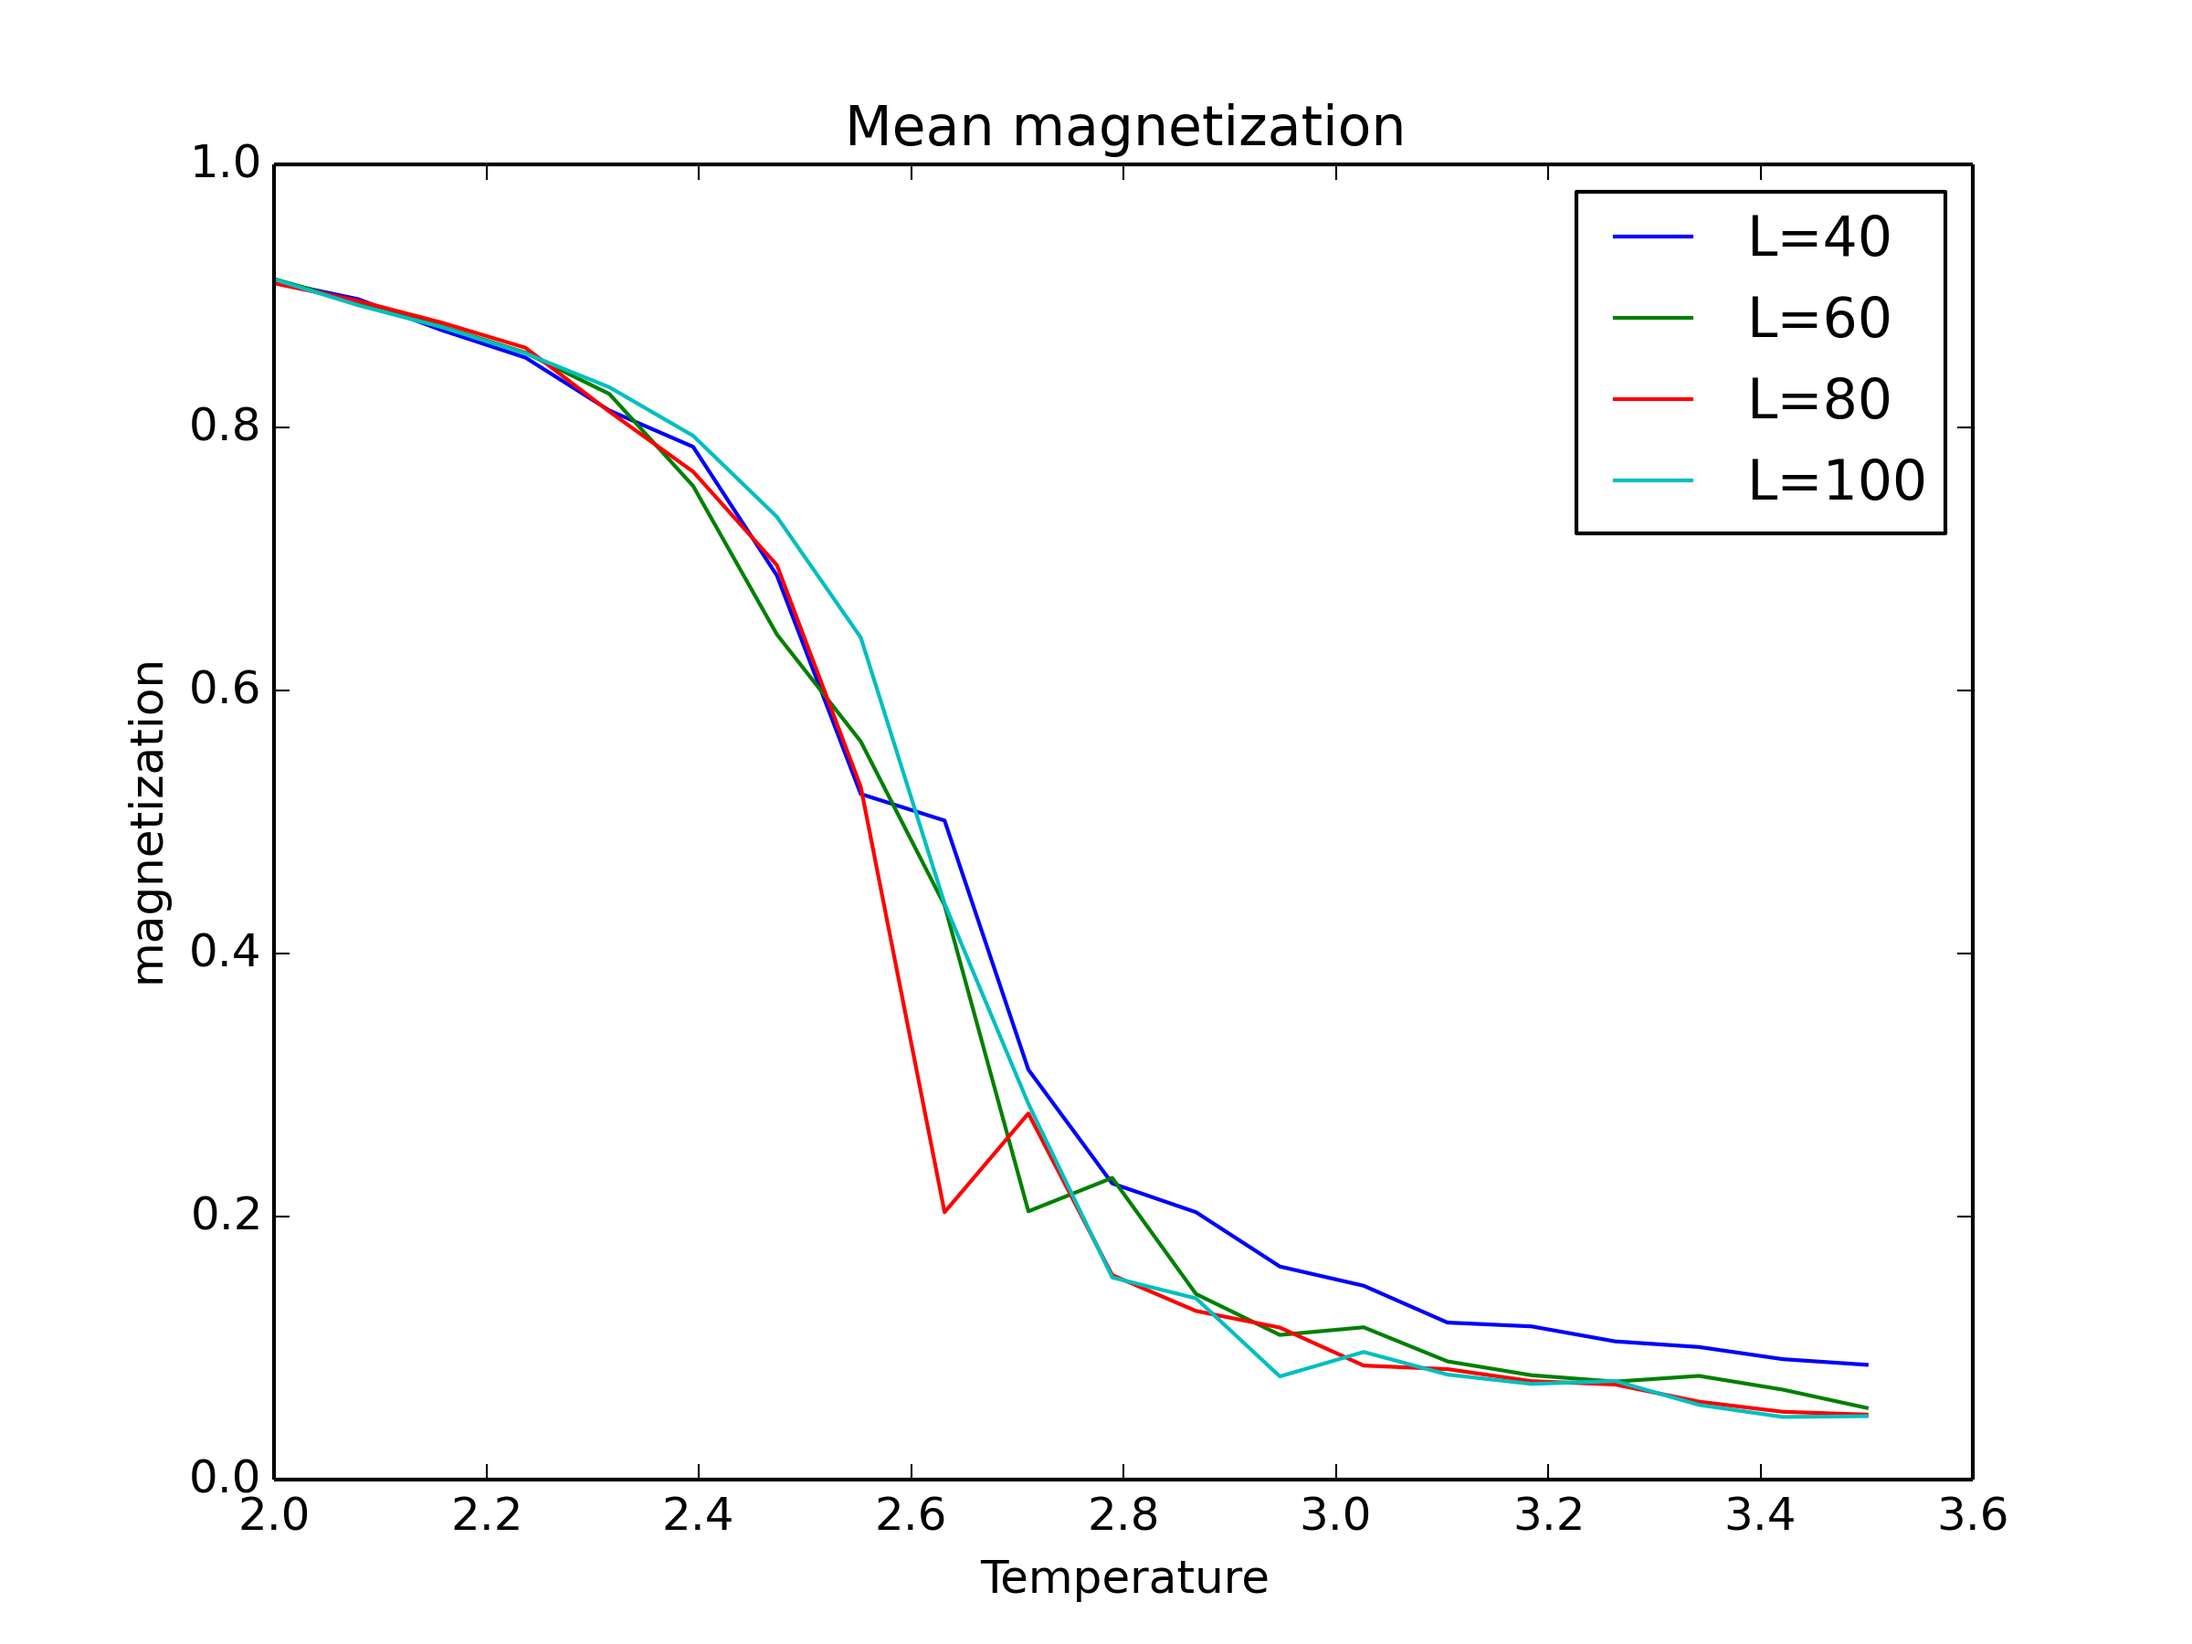
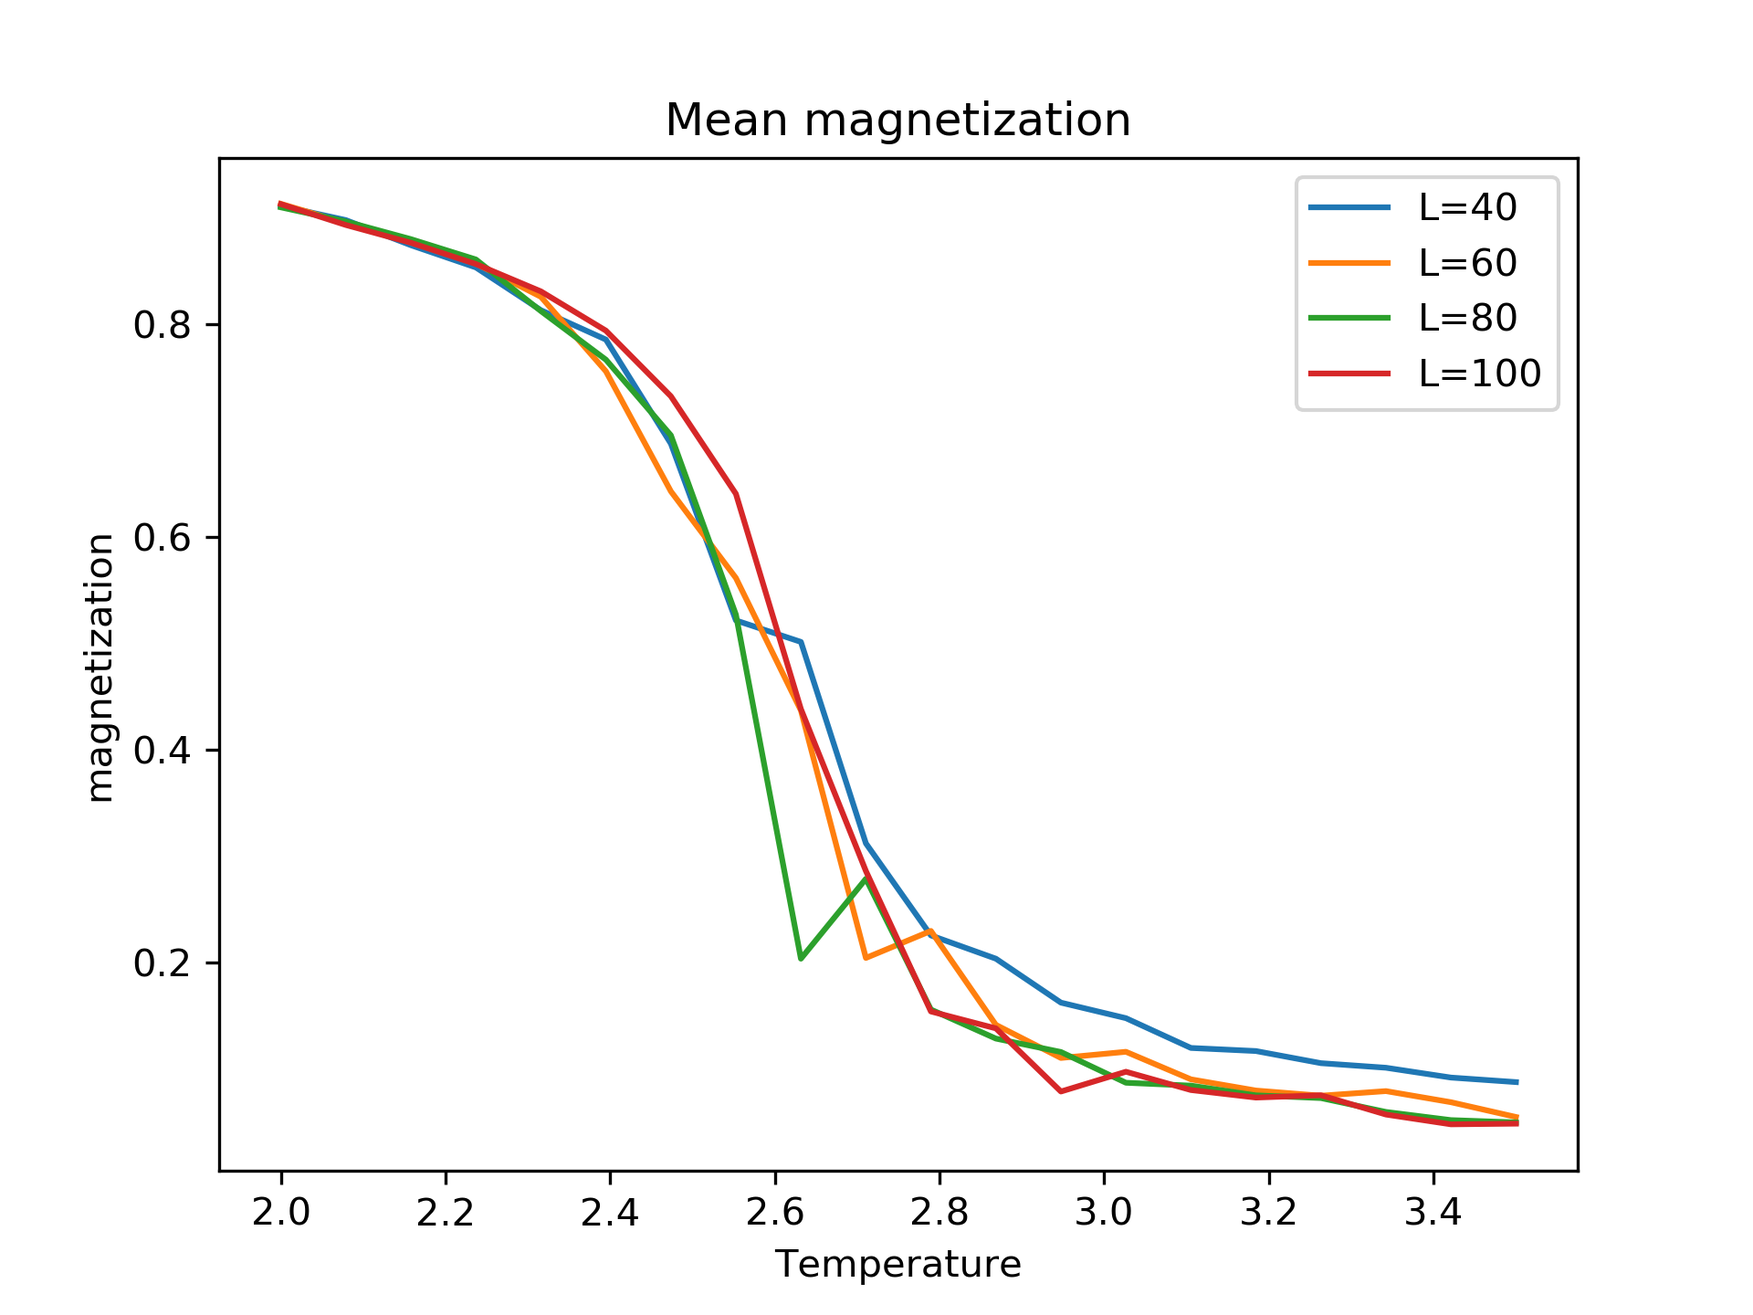
interpolert plot

diff --git a/Project4/Latex/Plotting/final_plot.py b/Project4/Latex/Plotting/final_plot.py
@@ -34,17 +34,38 @@ for k in range(T_steps):
 
 T = np.linspace(2.0, 3.5, T_steps)
 
-specific_heat_40  = interpolate.interp1d(T, M_mean[0])
-specific_heat_60  = interpolate.interp1d(T, M_mean[1])
-specific_heat_80  = interpolate.interp1d(T, M_mean[2])
-specific_heat_100 = interpolate.interp1d(T, M_mean[3])
 
-susceptibility_40  = interpolate.interp1d(T, susceptibility[0])
-susceptibility_60  = interpolate.interp1d(T, susceptibility[1])
-susceptibility_80  = interpolate.interp1d(T, susceptibility[2])
-susceptibility_100 = interpolate.interp1d(T, susceptibility[3])
+"""
+Interpolation for specific heat and susceptibility
+"""
+s_1  = interpolate.interp1d(T, specific_heat[0])
+s_2  = interpolate.interp1d(T, specific_heat[1])
+s_3  = interpolate.interp1d(T, specific_heat[2])
+s_4  = interpolate.interp1d(T, specific_heat[3])
+
+xi_1 = interpolate.interp1d(T, susceptibility[0])
+xi_2 = interpolate.interp1d(T, susceptibility[1])
+xi_3 = interpolate.interp1d(T, susceptibility[2])
+xi_4 = interpolate.interp1d(T, susceptibility[3])
 
 
+T_new = np.linspace(2.0, 3.5, T_steps-1)
+
+specific_heat_40  = s_1(T_new)
+specific_heat_60  = s_2(T_new)
+specific_heat_80  = s_3(T_new)
+specific_heat_100 = s_4(T_new)
+
+
+susceptibility_40  = xi_1(T_new)
+susceptibility_60  = xi_2(T_new)
+susceptibility_80  = xi_3(T_new)
+susceptibility_100 = xi_4(T_new)
+
+
+"""
+Plotting
+"""
 
 plt.plot(T, E_mean[0], label='L=40')
 plt.plot(T, E_mean[1], label='L=60')
@@ -68,10 +89,10 @@ plt.ylabel('magnetization')
 plt.savefig("Mean_M.png", dpi=300)
 plt.show()
 
-plt.plot(T, specific_heat[0], label='L=40')
-plt.plot(T, specific_heat[1], label='L=60')
-plt.plot(T, specific_heat[2], label='L=80')
-plt.plot(T, specific_heat[3], label='L=100')
+plt.plot(T_new, specific_heat_40, label='L=40')
+plt.plot(T_new, specific_heat_60, label='L=60')
+plt.plot(T_new, specific_heat_80, label='L=80')
+plt.plot(T_new, specific_heat_100, label='L=100')
 plt.title(r'Specific Heat ($C_v$)')
 plt.legend()
 plt.xlabel('Temperature')
@@ -79,10 +100,10 @@ plt.ylabel('Specific heat')
 plt.savefig("Specific_heat.png", dpi=300)
 plt.show()
 
-plt.plot(T, susceptibility[0], label='L=40')
-plt.plot(T, susceptibility[1], label='L=60')
-plt.plot(T, susceptibility[2], label='L=80')
-plt.plot(T, susceptibility[3], label='L=100')
+plt.plot(T_new, susceptibility_40, label='L=40')
+plt.plot(T_new, susceptibility_60, label='L=60')
+plt.plot(T_new, susceptibility_80, label='L=80')
+plt.plot(T_new, susceptibility_100, label='L=100')
 plt.title('Susceptibility')
 plt.legend()
 plt.xlabel('Temperature')
